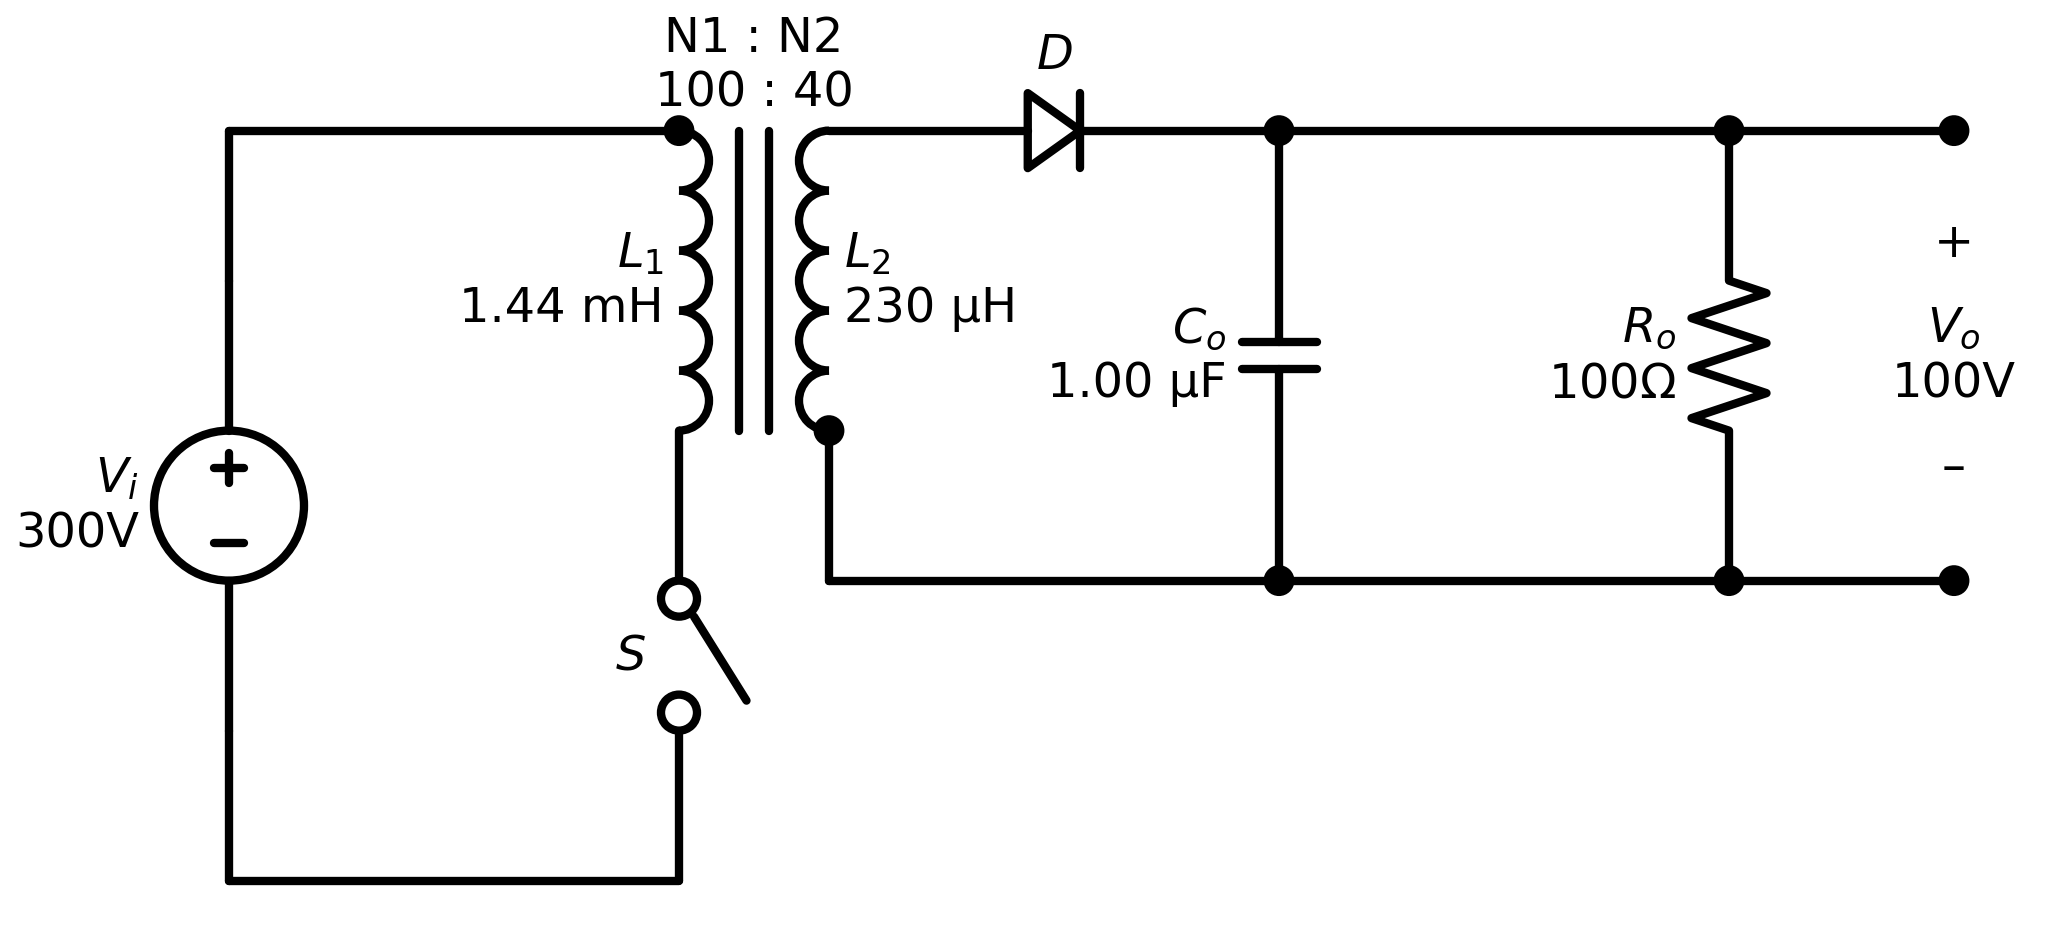
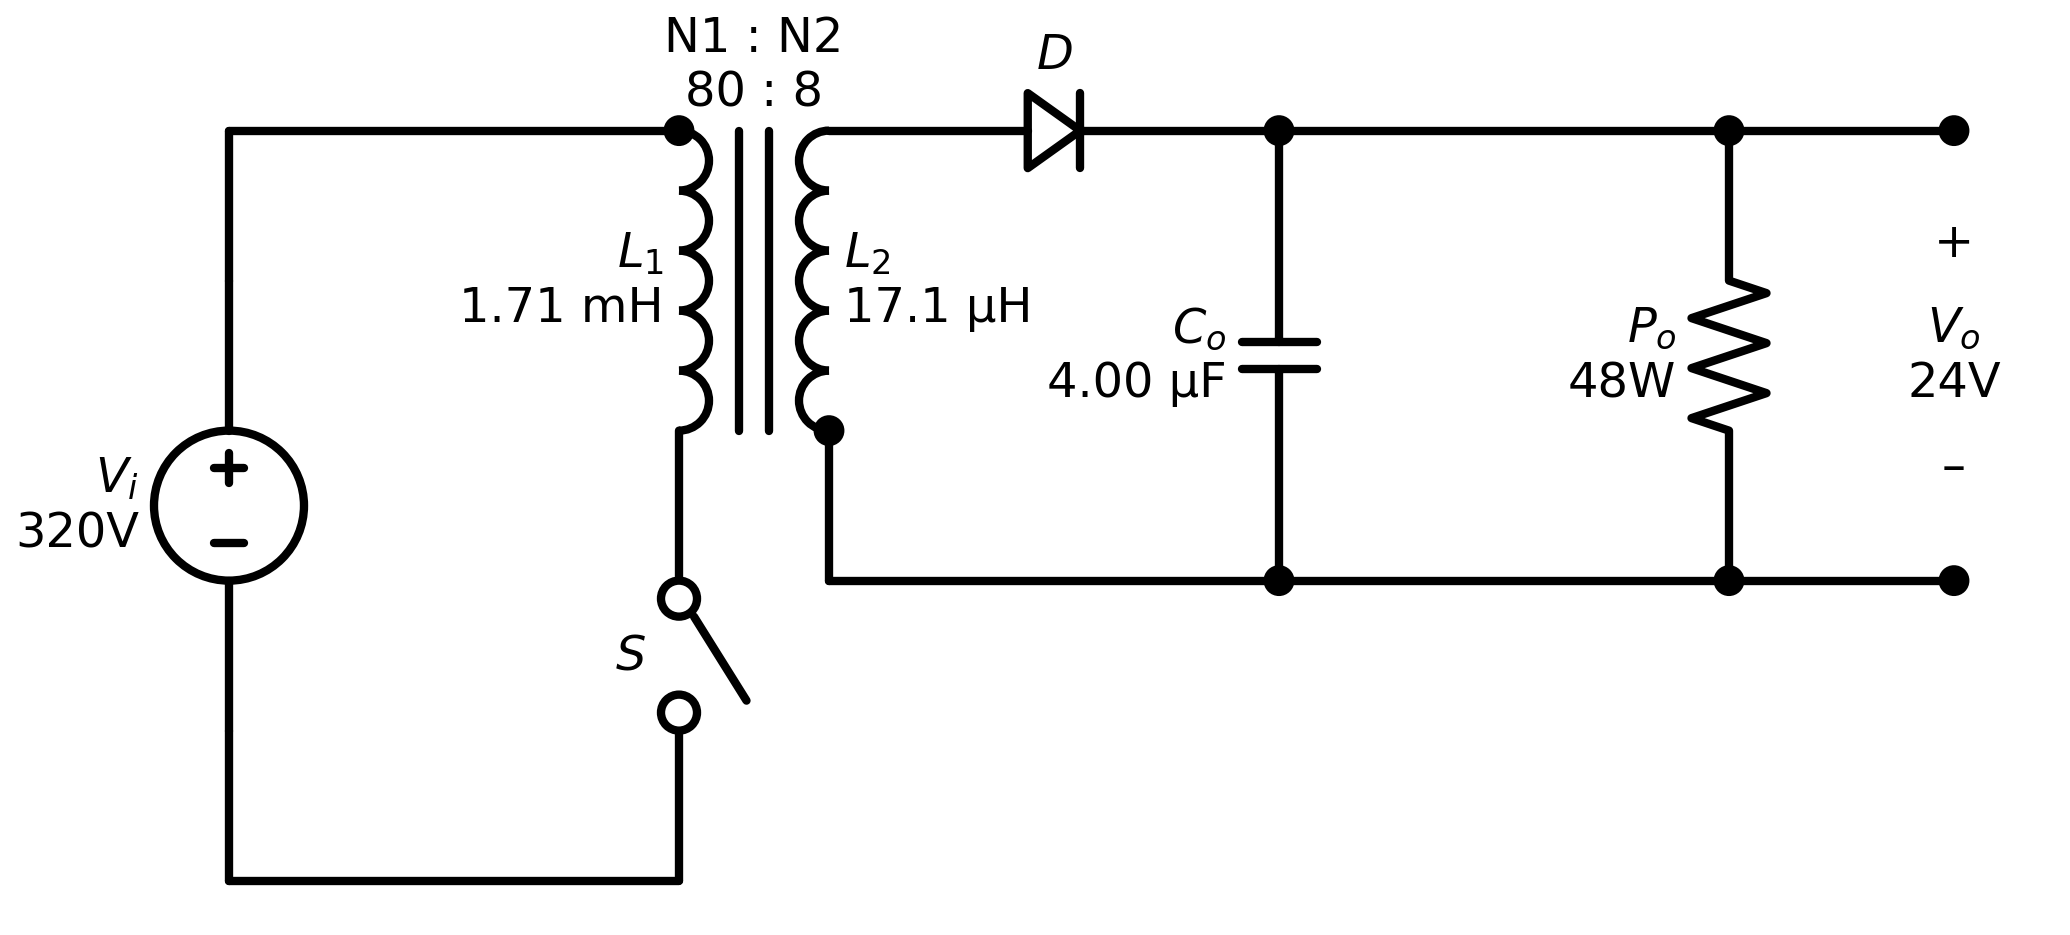
🛫VdV🛬

diff --git a/pages/VdV.py b/pages/VdV.py
@@ -3,7 +3,7 @@ from dash import callback, dash_table, dcc, html, Input, Output, State
 import dash_bootstrap_components as dbc
 from PIL import Image
 import json
-from math import sqrt
+from math import sqrt, pi, ceil
 import pandas as pd
 import os
 
@@ -22,6 +22,7 @@ IMG_CIRC_VdV_E2 = html.Img(src=Image.open("./images/circuitos/VdV_e2.png"), widt
 IMG_CIRC_VdV_E3 = html.Img(src=Image.open("./images/circuitos/VdV_e3.png"), width="50%")
 
 AeAw_DF = pd.read_csv(f"{CUFC_dir}/data/AeAw.csv", sep=";", decimal=",")
+AWG_DF = pd.read_csv(f"{CUFC_dir}/data/AWG.csv", sep=";", decimal=",")
 CAP_DF = pd.read_csv(f"{CUFC_dir}/data/Capacitores.csv", sep=";", decimal=".")
 
 ENT = ["Vi","Vo","Po","rend","dVo_V","dVo_p","fs","Ts","D","Bmax","Jmax"]
@@ -75,6 +76,7 @@ layout = html.Div([
 		dbc.Row([html.Center(html.H5("Secundário"))]),
 		dbc.Row([html.Center(dcc.Markdown(id="VdV-C-L2", mathjax=True, style={"font-size":30}))]),
 		dbc.Row([html.Center(dcc.Markdown(id="VdV-C-iL2max", mathjax=True, style={"font-size":30}))]),
+		dbc.Row([html.Center(dcc.Markdown(id="VdV-C-iL2rms", mathjax=True, style={"font-size":30}))]),
 		
 		html.Hr(),
 		dbc.Row([html.Center(html.H3("Capacitor de Saída"))]),
@@ -94,7 +96,25 @@ layout = html.Div([
 		dbc.Row([html.Center(html.H3("Espiras"))]),
 		dbc.Row([html.Center(dcc.Markdown(id="VdV-C-N1", mathjax=True, style={"font-size":30}))]),
 		dbc.Row([html.Center(dcc.Markdown(id="VdV-C-N2", mathjax=True, style={"font-size":30}))]),
-		# dbc.Row([html.Center(id="VdV-TAB-ESP")]),
+
+		html.Hr(),
+		dbc.Row([html.Center(html.H3("Condutores"))]),
+		dbc.Row([html.Center(dcc.Markdown(id="VdV-C-delta", mathjax=True, style={"font-size":30}))]),
+		dbc.Row([html.Center(dcc.Markdown(id="VdV-C-Askin", mathjax=True, style={"font-size":30}))]),
+		dbc.Row([html.Center(id="VdV-TAB-AWG")]),
+		dbc.Row([html.Center(html.H5("Fio Primário"))]),
+		dbc.Row([html.Center(dcc.Markdown(id="VdV-C-Af1", mathjax=True, style={"font-size":30}))]),
+		dbc.Row([html.Div(dcc.Dropdown(id="VdV-DD-AWG-f1", options=AWG_DF["AWG"], value=AWG_DF["AWG"][AeAw_DF.index[0]]))]),
+		dbc.Row([html.Center(dcc.Markdown(id="VdV-C-NCP-f1", mathjax=True, style={"font-size":30}))]),
+		dbc.Row([html.Center(html.H5("Fio Secundário"))]),
+		dbc.Row([html.Center(dcc.Markdown(id="VdV-C-Af2", mathjax=True, style={"font-size":30}))]),
+		dbc.Row([html.Div(dcc.Dropdown(id="VdV-DD-AWG-f2", options=AWG_DF["AWG"], value=AWG_DF["AWG"][AeAw_DF.index[0]]))]),
+		dbc.Row([html.Center(dcc.Markdown(id="VdV-C-NCP-f2", mathjax=True, style={"font-size":30}))]),
+		dbc.Row([html.Center(html.H5("Entreferro"))]),
+		dbc.Row([html.Center(dcc.Markdown(id="VdV-C-lg", mathjax=True, style={"font-size":30}))]),
+		dbc.Row([html.Center(html.H5("Fator de Execução"))]),
+		dbc.Row([html.Center(dcc.Markdown(id="VdV-C-Aw-min", mathjax=True, style={"font-size":30}))]),
+		dbc.Row([html.Center(dcc.Markdown(id="VdV-C-FE", mathjax=True, style={"font-size":30}))]),
 	]),
 	
 	#  ██████  ██████   █████  ███████ ██  ██████  ██████  
@@ -125,12 +145,15 @@ layout = html.Div([
 #  ██████  ██████  ██   ████ ██      ██  ██████   ██████  ██   ██ ██   ██ ██   ██ 
 
 @callback([
-		Output("VdV-ent", "children"), Output("VdV-circ", "children"),
+		Output("VdV-ent", "children"),
 		Output("VdV-C-n-calc", "children"), Output("VdV-C-DT", "children"), Output("VdV-C-tx", "children"), Output("VdV-C-Pi", "children"),
 		Output("VdV-C-L1", "children"), Output("VdV-C-iL1max", "children"), Output("VdV-C-iL1rms", "children"),
-		Output("VdV-C-L2", "children"), Output("VdV-C-iL2max", "children"),
+		Output("VdV-C-L2", "children"), Output("VdV-C-iL2max", "children"), Output("VdV-C-iL2rms", "children"),
 		Output("VdV-C-Comin", "children"), Output("VdV-DD-Co", "options"), Output("VdV-DD-Co", "value"),
 		Output("VdV-C-AeAw", "children"), Output("VdV-TAB-AeAw", "children"), Output("VdV-DD-NUC", "options"), Output("VdV-DD-NUC", "value"),
+		Output("VdV-C-delta", "children"), Output("VdV-C-Askin", "children"), Output("VdV-TAB-AWG", "children"),
+		Output("VdV-C-Af1", "children"), Output("VdV-DD-AWG-f1", "options"), Output("VdV-DD-AWG-f1", "value"),
+		Output("VdV-C-Af2", "children"), Output("VdV-DD-AWG-f2", "options"), Output("VdV-DD-AWG-f2", "value"),
 		Output("VdV-G-L1", "figure"), Output("VdV-G-L2", "figure"), Output("VdV-G-S", "figure"), Output("VdV-G-D", "figure")
 		], Input("VdV-data", "data"))
 def configurar_elementos(VdV):
@@ -203,9 +226,6 @@ def configurar_elementos(VdV):
 		]),
 	])
 
-	# SD_VdV(VdV)
-	IMG_CIRC_VdV = html.Img(src=Image.open("./images/circuitos/VdV.png"), width="100%")
-
 	C_n = f"$$n = \\frac{{N_2}}{{N_1}} \\leq \\frac{{V_o \\cdot \\left( 1 - D \\right)}}{{V_i \\cdot D}}$$ = {VdV['N2N1_calc']:.5f} $$\\Rightarrow n$$ = {VdV['N2N1']}"
 	C_DT = f"$$DT = D \\cdot T_s$$ = {R2SI(VdV['DT'])}s"
 	C_tx = f"$$t_x = DT \\cdot \\left( \\frac{{V_i \\cdot n}}{{V_o}} + 1 \\right)$$ = {R2SI(VdV['tx'])}s"
@@ -217,6 +237,7 @@ def configurar_elementos(VdV):
 	
 	C_L2 = f"$$L_2 = n^2 \\cdot L_1$$ = {R2SI(VdV['L2'])}H"
 	C_iL2max = f"$$i_{{L_{{2_{{max}}}}}} = i_{{D_{{max}}}} = \\frac{{V_i \\cdot DT}}{{L_1 \\cdot n}}$$ = {R2SI(VdV['iL2max'])}A"
+	C_iL2rms = f"$$i_{{L_{{2_{{rms}}}}}} = i_{{L_{{2_{{max}}}}}} \\cdot \\sqrt{{ \\frac{{tx-DT}}{{3 \\cdot T_s}} }}$$ = {R2SI(VdV['iL2rms'])}A"
 
 	C_Comin = f"$$C_{{o_{{min}}}} = \\frac{{I_o \\cdot DT}}{{\\Delta V_o}}$$ = {R2SI(VdV['Comin'])}F"
 	Co_DF = CAP_DF.loc[CAP_DF["F"] >= VdV["Comin"]]
@@ -253,9 +274,47 @@ def configurar_elementos(VdV):
 		NUC_opt = ["E-55"]
 		NUC_val = "E-55"
 
+	# Efeito Skin
+	C_delta = f"$$\\delta = \\frac{{7,5}}{{\\sqrt{{f_s}}}}$$ = {R2SI(VdV['delta'])}cm"
+	C_Askin = f"$$A_{{skin}} = \\pi \\cdot \\delta^2$$ = {R2SI(VdV['Askin'])}cm²"
+	TAB_AWG = dash_table.DataTable(
+		data = AWG_DF.to_dict("records"),
+		columns = [{"name":i, "id":i} for i in AWG_DF.columns],
+		style_cell = {"textAlign": "center"},
+		cell_selectable = False,
+		style_data_conditional=[
+			{"if": {
+				"filter_query": f"{{ACu}} < {VdV['Askin']}",
+				"column_id": "ACu"
+			},
+			"backgroundColor": "green",
+			"color": "white"},
+			{"if": {
+				"filter_query": f"{{ACu}} >= {VdV['Askin']}",
+				"column_id": "ACu"
+			},
+			"backgroundColor": "red",
+			"color": "white"},
+		]
+	)
+	TAB_Askin = AWG_DF.loc[AWG_DF["ACu"] < VdV["Askin"]]
+	AWG_min = TAB_Askin["AWG"][TAB_Askin.index[0]]
+
+	C_Af1 = f"$$A_{{fio_1}} = \\frac{{i_{{L_{{1_{{rms}}}}}}}}{{J_{{max}}}}$$ = {R2SI(VdV['Af1'])}cm²"
+	TAB_f1 = AWG_DF.loc[AWG_DF["ACu"] < VdV["Af1"]]
+	TAB_f1 = TAB_f1.loc[TAB_f1["AWG"] >= AWG_min]
+	AWG_f1_val = TAB_f1["AWG"].tolist()
+	AWG_f1_opt = AWG_f1_val[0]
+
+	C_Af2 = f"$$A_{{fio_2}} = \\frac{{i_{{L_{{2_{{rms}}}}}}}}{{J_{{max}}}}$$ = {R2SI(VdV['Af2'])}cm²"
+	TAB_f2 = AWG_DF.loc[AWG_DF["ACu"] < VdV["Af2"]]
+	TAB_f2 = TAB_f2.loc[TAB_f2["AWG"] >= AWG_min]
+	AWG_f2_val = TAB_f2["AWG"].tolist()
+	AWG_f2_opt = AWG_f2_val[0]
+	
 	fig = GG_VeI(VdV)
 
-	return ENTRADAS, IMG_CIRC_VdV, C_n, C_DT, C_tx, C_Pi, C_L1, C_iL1max, C_iL1rms, C_L2, C_iL2max, C_Comin, Co_opt, Co_val, C_AeAw, TAB_AeAw, NUC_opt, NUC_val, fig[0], fig[1], fig[2], fig[3]
+	return ENTRADAS, C_n, C_DT, C_tx, C_Pi, C_L1, C_iL1max, C_iL1rms, C_L2, C_iL2max, C_iL2rms, C_Comin, Co_opt, Co_val, C_AeAw, TAB_AeAw, NUC_opt, NUC_val, C_delta, C_Askin, TAB_AWG, C_Af1, AWG_f1_val, AWG_f1_opt, C_Af2, AWG_f2_val, AWG_f2_opt, fig[0], fig[1], fig[2], fig[3]
 
 #  █████  ██      ████████ ███████ ██████   █████  ██████  
 # ██   ██ ██         ██    ██      ██   ██ ██   ██ ██   ██ 
@@ -341,6 +400,7 @@ def alteração_das_entradas(*args):
 
 	VdV["VL2max"] = VdV["Vi"]*VdV["N2N1"]
 	VdV["iL2max"] = VdV["iL1max"]*VdV["N1N2"]
+	VdV["iL2rms"] = VdV["iL2max"]*sqrt((VdV["tx"]-VdV["DT"])/(3*VdV["Ts"]))
 	
 	VdV["VSmax"] = VdV["Vi"] + VdV["Vo"]*VdV["N1N2"]
 	VdV["iSmax"] = VdV["iL1max"]
@@ -351,6 +411,12 @@ def alteração_das_entradas(*args):
 	VdV["K"] = 0.25
 	VdV["AeAw"] = VdV["L1"]*VdV["iL1max"]*VdV["iL1rms"]/(VdV["Bmax"]*VdV["Jmax"]*1e5*VdV["K"])
 
+	VdV["delta"] = 7.5/sqrt(VdV["fs"])
+	VdV["Askin"] = pi*VdV["delta"]*VdV["delta"]
+
+	VdV["Af1"] = VdV["iL1rms"]/VdV["Jmax"]
+	VdV["Af2"] = VdV["iL2rms"]/VdV["Jmax"]
+
 	VdV = dict(sorted(VdV.items(), key=lambda i: i[0].lower()))
 	# print(json.dumps(VdV, indent=2))
 	with open("./data/VdV.json", "w") as arq:
@@ -358,11 +424,24 @@ def alteração_das_entradas(*args):
 
 	return VdV, VdV["fs"], VdV["Ts"], VdV["dVo_V"], VdV["dVo_p"]
 
+# ██████  ██████   ██████  ██████  ██████   ██████  ██     ██ ███    ██ 
+# ██   ██ ██   ██ ██    ██ ██   ██ ██   ██ ██    ██ ██     ██ ████   ██ 
+# ██   ██ ██████  ██    ██ ██████  ██   ██ ██    ██ ██  █  ██ ██ ██  ██ 
+# ██   ██ ██   ██ ██    ██ ██      ██   ██ ██    ██ ██ ███ ██ ██  ██ ██ 
+# ██████  ██   ██  ██████  ██      ██████   ██████   ███ ███  ██   ████ 
+
 @callback([
 	Output("VdV-C-Co", "children"), Output("VdV-C-Ae", "children"), Output("VdV-C-Aw", "children"),
 	Output("VdV-C-N1", "children"), Output("VdV-C-N2", "children"),
-	], [Input("VdV-DD-Co", "value"), Input("VdV-DD-NUC", "value")], State("VdV-data", "data"))
-def alteração_das_DD(Co, NUC, VdV):
+	Output("VdV-C-NCP-f1", "children"), Output("VdV-C-NCP-f2", "children"),
+	Output("VdV-C-lg", "children"),
+	Output("VdV-C-Aw-min", "children"), Output("VdV-C-FE", "children"),
+	Output("VdV-circ", "children"),
+	], [
+		Input("VdV-DD-Co", "value"), Input("VdV-DD-NUC", "value"),
+		Input("VdV-DD-AWG-f1", "value"), Input("VdV-DD-AWG-f2", "value"),
+	], State("VdV-data", "data"))
+def alteração_das_DD(Co, NUC, AWG_f1, AWG_f2, VdV):
 	Co_DF = CAP_DF.loc[CAP_DF["txt"] == Co]
 	Co = Co_DF["F"][Co_DF.index[0]]
 	C_Co = f"$$C_o$$ = {R2SI(Co)}F"
@@ -379,4 +458,32 @@ def alteração_das_DD(Co, NUC, VdV):
 	C_N2 = f"$$N_2 = N_1 \\cdot n$$ = {N2}"
 	C_N1 = f"$$N_1 = \\frac{{L_1 \\cdot i_{{L_{{1_{{max}}}}}}}}{{A_e \\cdot B_{{max}}}}$$ = {N1_calc:.2f} $$\\Rightarrow N_1$$ = {N1}"
 
-	return C_Co, C_Ae, C_Aw, C_N1, C_N2
+	TAB_Askin = AWG_DF.loc[AWG_DF["ACu"] < VdV["Askin"]]
+	TAB_f1 = TAB_Askin.loc[TAB_Askin["AWG"] == AWG_f1]
+	ACu_f1 = TAB_f1["ACu"][TAB_f1.index[0]]
+	AIso_f1 = TAB_f1["AIso"][TAB_f1.index[0]]
+	TAB_f2 = TAB_Askin.loc[TAB_Askin["AWG"] == AWG_f2]
+	ACu_f2 = TAB_f2["ACu"][TAB_f2.index[0]]
+	AIso_f2 = TAB_f2["AIso"][TAB_f2.index[0]]
+
+	NCP_f1 = ceil(VdV["Af1"]/ACu_f1)
+	NCP_f2 = ceil(VdV["Af2"]/ACu_f2)
+	C_NCP_f1 = f"$$NCP_{{fio_1}} = \\frac{{A_{{fio_1}}}}{{A_{{AWG_1}}}}$$ = {NCP_f1}"
+	C_NCP_f2 = f"$$NCP_{{fio_2}} = \\frac{{A_{{fio_2}}}}{{A_{{AWG_2}}}}$$ = {NCP_f2}"
+
+	lg = N1*N1*Ae*1e-4*4*pi*1e-7/VdV["L1"]
+	C_lg = f"$$\\frac{{N_1^2 \\cdot A_e \\cdot \\mu_0}}{{L_1}}$$ = {R2SI(lg)}m"
+
+	Aw_min = N1*NCP_f1*AIso_f1 + N2*NCP_f2*AIso_f2
+	C_Aw_min = f"$$A_{{W_{{min}}}} = N_1 \\cdot NCP_1 \\cdot A_{{Iso_1}} + N_2 \\cdot NCP_2 \\cdot A_{{Iso_2}}$$ = {R2SI(Aw_min)}cm²"
+	FE = Aw_min/Aw
+	C_FE = f"$$FE = \\frac{{AW_{{min}}}}{{AW}}$$ = {FE:.3f}"
+
+	SD_VdV(VdV,N1,N2,Co)
+	IMG_CIRC_VdV = html.Img(src=Image.open("./images/circuitos/VdV.png"), width="100%")
+
+	return C_Co, C_Ae, C_Aw, C_N1, C_N2, C_NCP_f1, C_NCP_f2, C_lg, C_Aw_min, C_FE, IMG_CIRC_VdV
+
+# Vo = 75
+# Po = 16,2
+# n = 90

diff --git a/modules/SD_VdV.py b/modules/SD_VdV.py
@@ -12,7 +12,7 @@ import pandas as pd
 
 from tools.R2SI import R2SI
 
-def SD_VdV(VdV):
+def SD_VdV(VdV,N1,N2,Co):
 	
 	with schemdraw.Drawing(show=False) as d:
 		# Configurações
@@ -23,18 +23,18 @@ def SD_VdV(VdV):
 		Vi = elm.SourceV().up().label(Vi_str)
 		L1_str = f"$L_1$\n{R2SI(VdV['L1'])}H"
 		L2_str = f"$L_2$\n{R2SI(VdV['L2'])}H"
-		N1_str = f"$N_1$\n{R2SI(VdV['N1'])}"
-		N2_str = f"$N_2$\n{R2SI(VdV['N2'])}"
+		N1_str = f"$N_1$\n{N1}"
+		N2_str = f"$N_2$\n{N2}"
 		TR1_str = f"{L1_str}\n{N1_str}"
 		TR2_str = f"{L2_str}\n{N2_str}"
-		TRN_str = f"N1 : N2\n{R2SI(VdV['N1'])} : {R2SI(VdV['N2'])}"
+		TRN_str = f"N1 : N2\n{N1} : {N2}"
 		Tr = elm.Transformer(t1=5, t2=5).label(L1_str,"lft").label(L2_str,"rgt").label(TRN_str)
 		S = elm.Switch().label("$S$")
 		D = elm.Diode().label("$D$")
-		Co_str = f"$C_o$\n{R2SI(VdV['Co'])}F"
+		Co_str = f"$C_o$\n{R2SI(Co)}F"
 		Co = elm.Capacitor().label(Co_str)
-		Ro_str = f"$R_o$\n{R2SI(VdV['Ro'])}$\Omega$"
-		Ro = elm.Resistor().label(Ro_str)
+		Po_str = f"$P_o$\n{R2SI(VdV['Po'])}W"
+		Po = elm.Resistor().label(Po_str)
 		Vo_str = f"$V_o$\n{R2SI(VdV['Vo'])}V"
 		Vo = elm.Gap().label(("+",Vo_str,"–"))
 
@@ -54,7 +54,7 @@ def SD_VdV(VdV):
 		d.push(); d += Co.down(); d.pop()
 		d += elm.Line().right() # Lin5
 		d += elm.Dot()
-		d.push(); d += Ro.down(); d.pop()
+		d.push(); d += Po.down(); d.pop()
 		d += elm.Line().right().length(d.unit/2) # Lin6
 		d += elm.Dot()
 		d += Vo.down()
